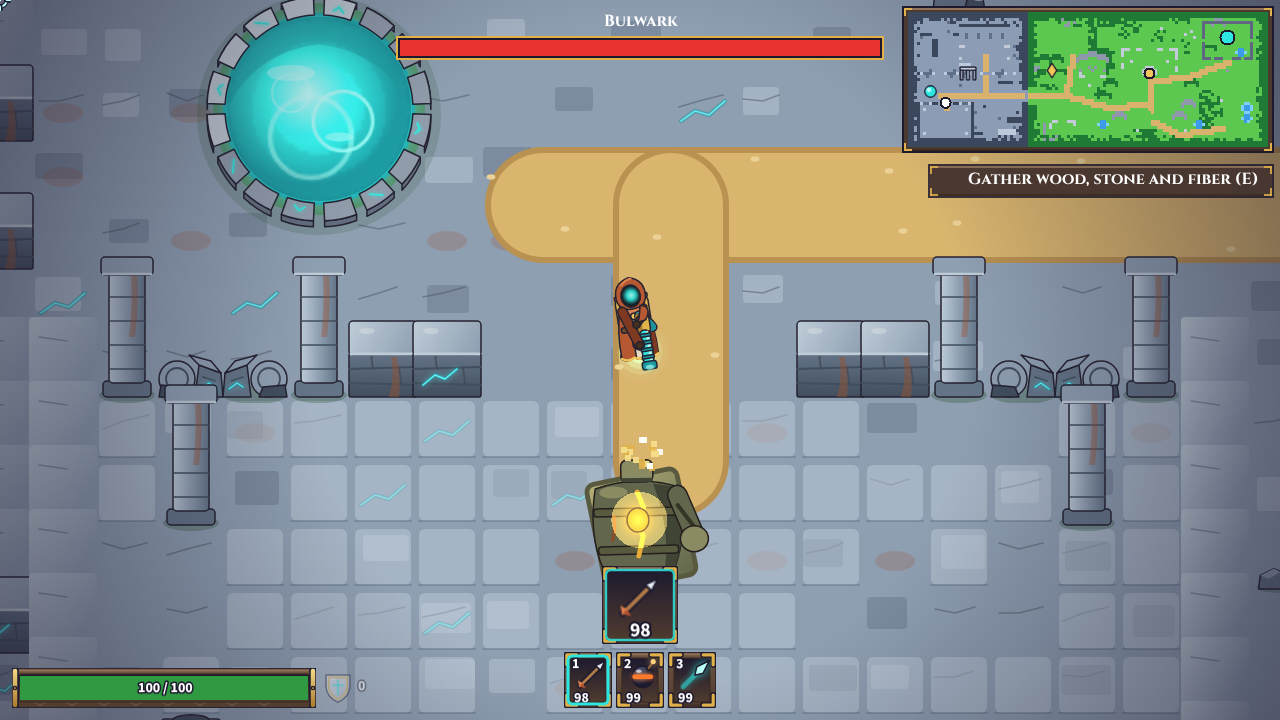
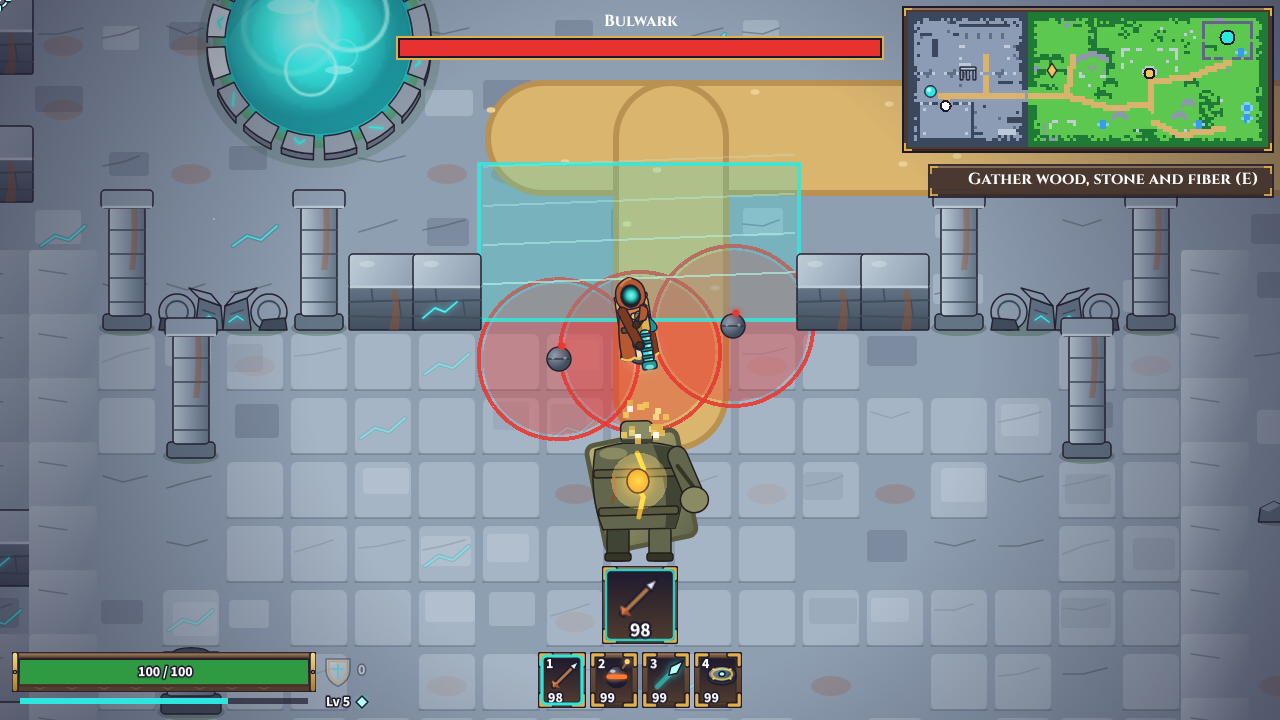
043: the blocked-spark review shot stands just inside the seal
The arena seal now stops the player stepping back into the way in,
so hollowsShots' "a blocked hit" stands one row inside instead.
Shot retaken; it also shows a lob's circles now.

Claude-Session: https://claude.ai/code/session_019ig8gw5L4yavYF6tvwkS5C

diff --git a/tests/e2e/hollowsShots.spec.ts b/tests/e2e/hollowsShots.spec.ts
@@ -188,15 +188,14 @@ test.describe('review screenshots (034)', () => {
   test('a blocked hit: the brass spark on the shield', async ({ page }) => {
     test.setTimeout(120_000);
     await forum(page, -3);
-    // Woken, step back into the way in: it turns its shield north toward the player but, with them outside
-    // its arena, neither lobs nor pounds, so nothing else is in the shot.
+    // Woken, step back toward the way in: it turns its shield north toward the player. Since 043 the way in is
+    // sealed while it fights, so the player stands on the row just inside the seal, which frames them both.
     await page.evaluate(([tx, ty]) => {
       const g = window.__GAME__;
       const h = window.__helpers;
       if (!g || !h) throw new Error('no game');
       g.step(1);
-      // In the way's gap itself (the wall's row): still outside its arena, close enough to frame them both.
-      h.walkTo((tx + 0.5) * 32, (ty + 0.4) * 32);
+      h.walkTo((tx + 0.5) * 32, (ty + 1.5) * 32);
       for (let t = 0; t < 300 && Math.abs((g.getState().bosses[0]?.angle ?? 0) - 270) > 5; t++) g.step(1);
     }, [A.start.tx, A.bounds.y0] as const);
     await cameraSettled(page, 20_000);
